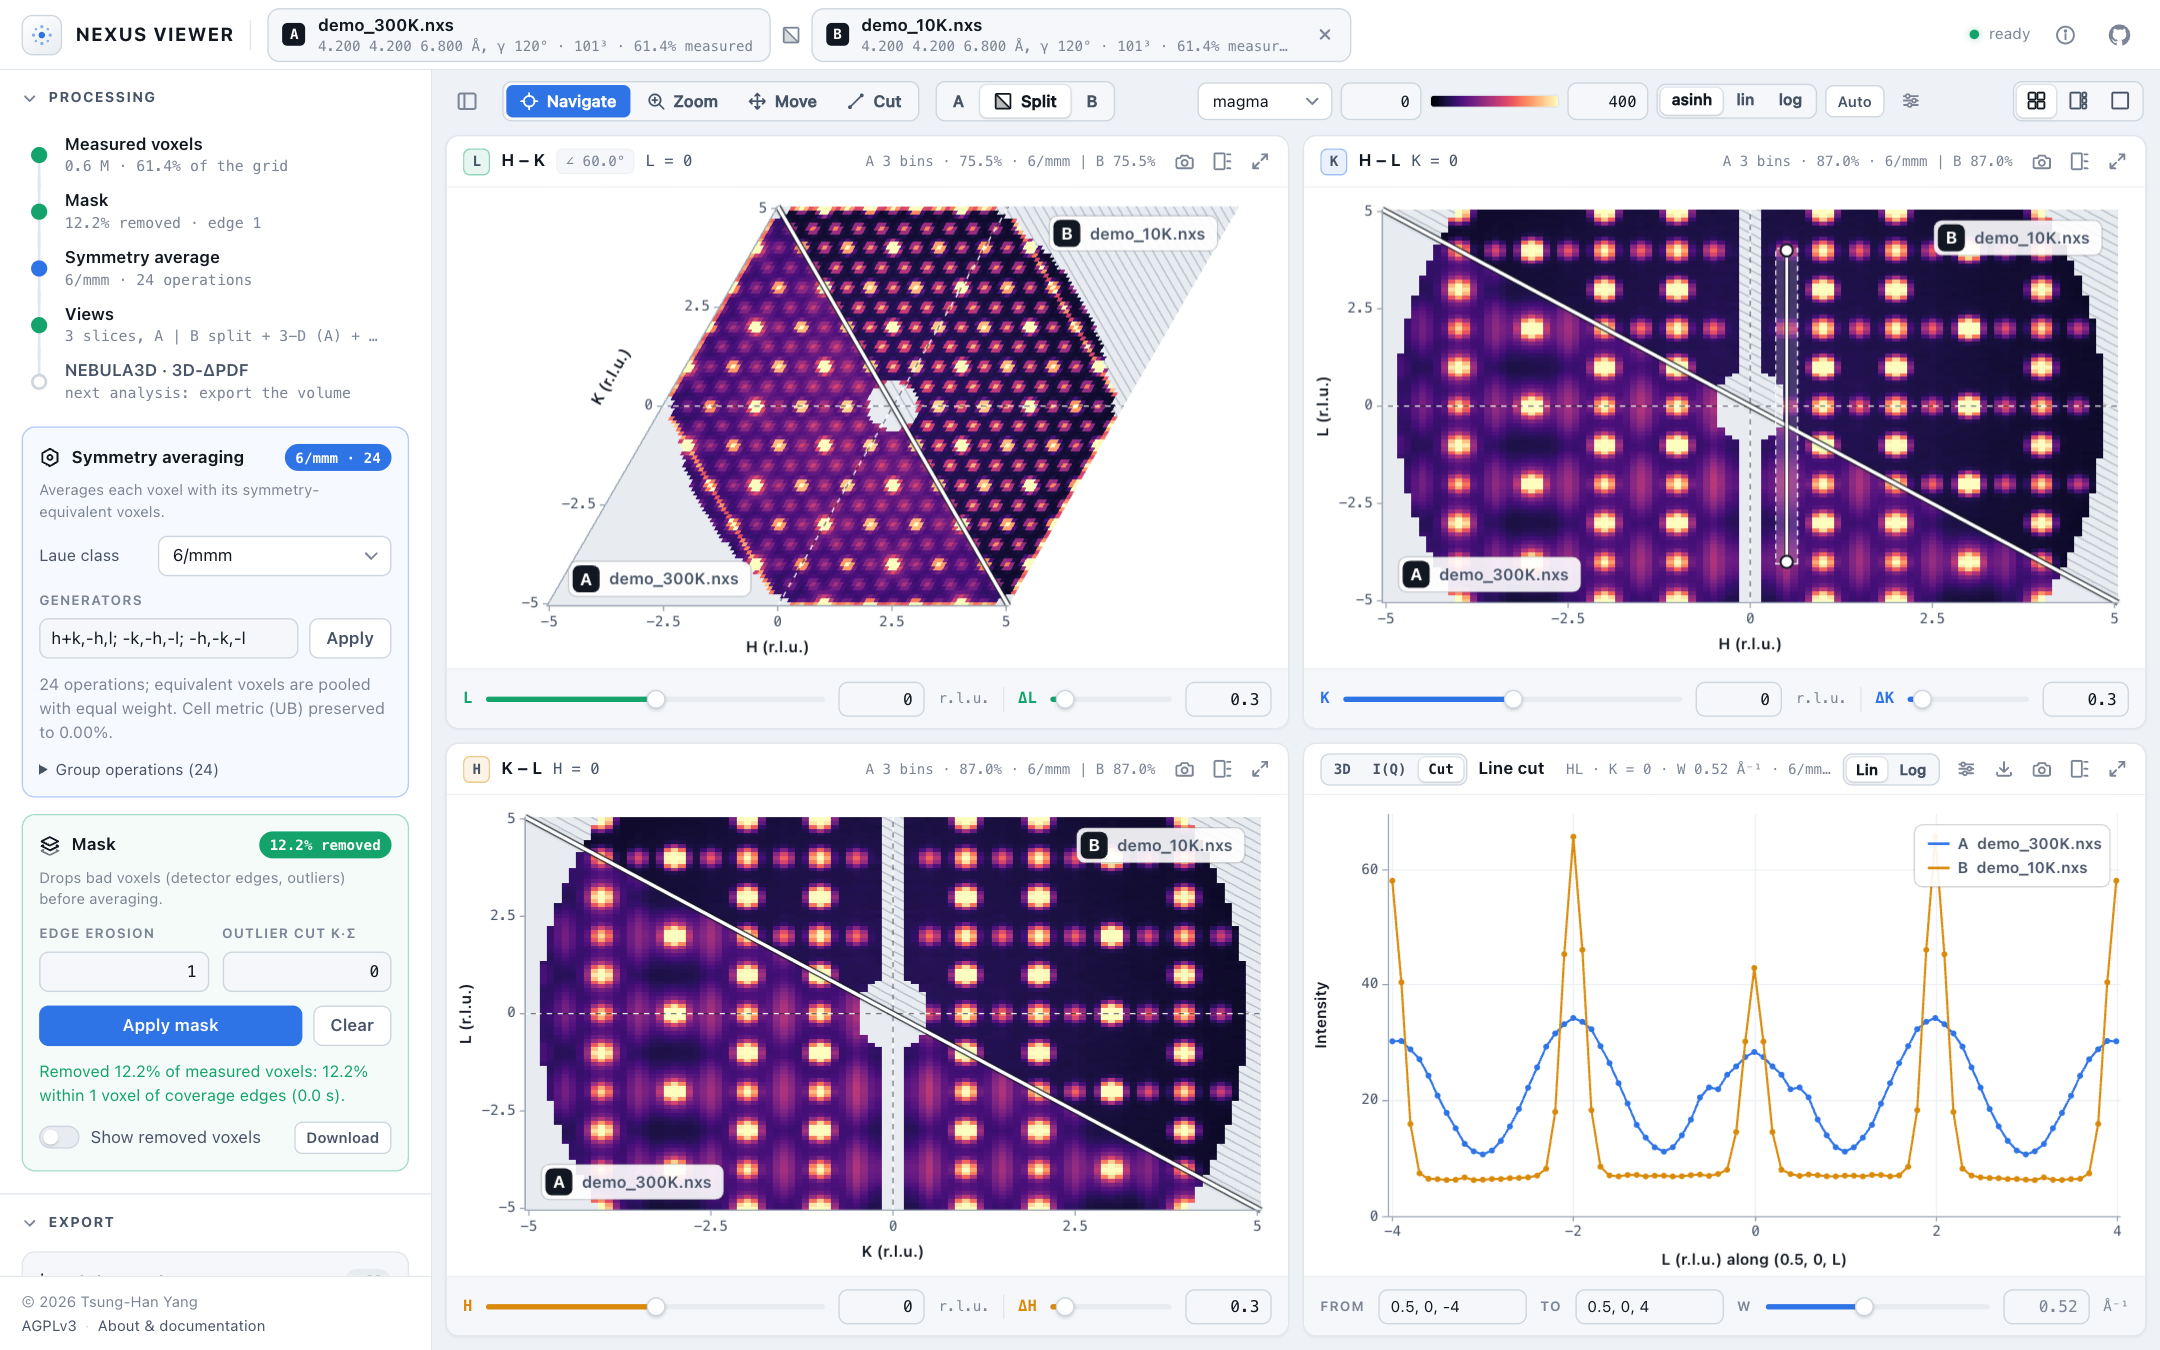
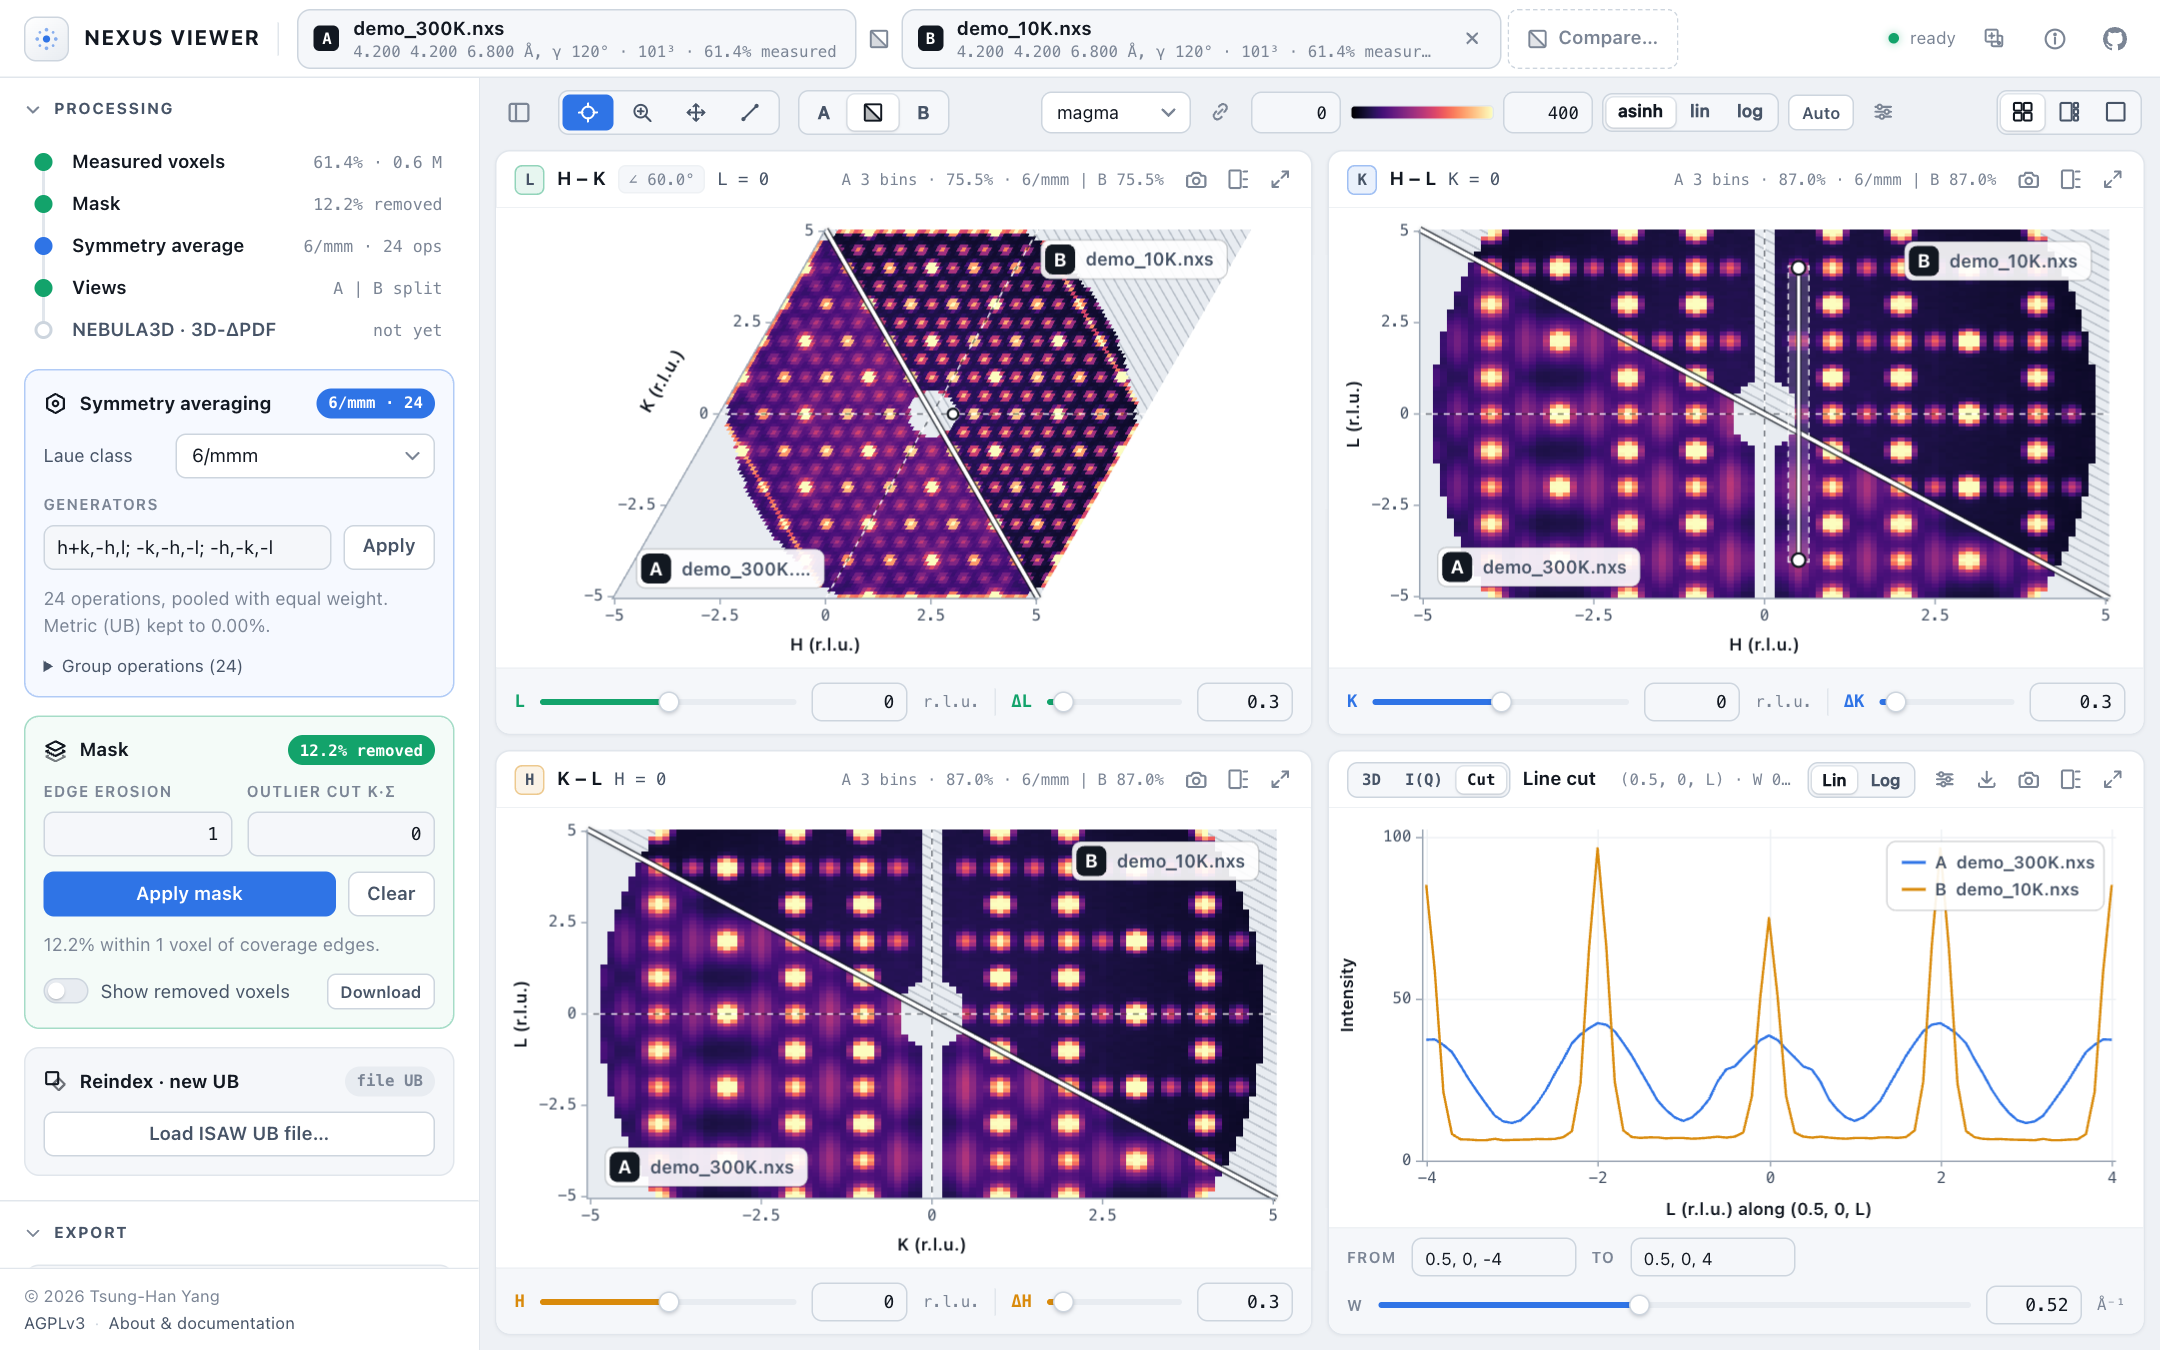
New README screenshot of the current interface, made by a script
tools/make_screenshot.mjs starts a headless Chrome with a temporary
profile, opens the example at 1440 x 900 and 1.5x pixel ratio, draws the
line cut along (0.5, 0, L) through the DevTools protocol and writes
docs/screenshot.png, so the picture can be remade after UI changes. The
new one shows the one-line pipeline and the Reindex card.

The README names reindexing in its summary and documentation table, and
the Method row the Rigaku reduction; DEVELOPMENT.md says how to remake the
screenshot. The mask's status leaves out a build time under 0.1 s.

diff --git a/js/app.js b/js/app.js
@@ -1897,7 +1897,7 @@ function showMask(seconds) {
   const parts = [];
   if (radius) parts.push(`${pct(edge / measured)} within ${radius} voxel${radius === 1 ? '' : 's'} of coverage edges`);
   if (k) parts.push(`${pct(outlier / measured)} above ${k}σ of their ${group} equivalents`);
-  statusEl.textContent = `${parts.join(', ')}${seconds ? ` (${seconds.toFixed(1)} s)` : ''}.`;
+  statusEl.textContent = `${parts.join(', ')}${seconds >= 0.1 ? ` (${seconds.toFixed(1)} s)` : ''}.`;
 }
 
 // ---- Export for NEBULA3D ----------------------------------------------------------------

diff --git a/README.md b/README.md
@@ -6,8 +6,8 @@
 [![Runs in the browser](https://img.shields.io/badge/runs-in%20your%20browser-6b6b6b)](https://drthyang.github.io/neutron-nexus-viewer/)
 
 **Reciprocal-space slices and line cuts of 3-D neutron and X-ray scattering data, with
-symmetry averaging, artifact masking, dataset comparison, a 3-D view, I(Q) and reduction of
-raw Rigaku single-crystal X-ray frames, all in your browser.**
+symmetry averaging, artifact masking, dataset comparison, a 3-D view, I(Q), reindexing with a
+new UB and reduction of raw Rigaku single-crystal X-ray frames, all in your browser.**
 
 **▶ Try it: [drthyang.github.io/neutron-nexus-viewer](https://drthyang.github.io/neutron-nexus-viewer/)** —
 nothing to install, and your data never leaves your machine. Open a Mantid `.nxs`
@@ -15,7 +15,7 @@ file, or [the example](https://drthyang.github.io/neutron-nexus-viewer/?demo): o
 short-range-order diffuse scattering condenses into superlattice peaks.
 
 <p align="center">
-  <img src="docs/screenshot.png" alt="NeXus Viewer comparing the example crystal at 300 K and 10 K: the HK, HL and KL slices are each split along their diagonal, with 300 K in the lower-left half and 10 K in the upper-right half. A line cut drawn on the HL slice along L through the M point (0.5, 0, L) is plotted in the fourth view: at 300 K a broad, continuous diffuse rod, at 10 K sharp superlattice peaks at even L. The control panel shows the processing pipeline with 6/mmm symmetry averaging and a mask, and the header row the click modes Navigate, Zoom, Move and Cut, the A / Split / B switch and the color scale." width="100%" />
+  <img src="docs/screenshot.png" alt="NeXus Viewer comparing the example crystal at 300 K and 10 K: the HK, HL and KL slices are each split along their diagonal, with 300 K in the lower-left half and 10 K in the upper-right half. A line cut drawn on the HL slice along L through the M point (0.5, 0, L) is plotted in the fourth view: at 300 K a broad, continuous diffuse rod, at 10 K sharp superlattice peaks at even L. The control panel shows the processing pipeline, one line per stage, with 6/mmm symmetry averaging, a mask and the Reindex card, and the header row the click modes, the A / Split / B switch and the color scale." width="100%" />
 </p>
 
 ## Goals
@@ -78,9 +78,9 @@ Tests (`npm install && npm test`), the code layout and deployment are covered in
 
 | Document | What it covers |
 | --- | --- |
-| [User guide](docs/USER_GUIDE.md) | The interface on each kind of screen, every control, line cuts, comparison, layouts, export, remote files and supported formats |
-| [Method](docs/METHOD.md) | How slices, line cuts, symmetry averaging, masking, comparison, the 3-D view, I(Q) and the NEBULA3D export are computed, and how they are validated |
-| [Development](docs/DEVELOPMENT.md) | Code layout, tests and fixtures, example data, dependencies and deployment |
+| [User guide](docs/USER_GUIDE.md) | The interface on each kind of screen, every control, line cuts, comparison, reindexing with a new UB, Rigaku reduction, layouts, export, remote files and supported formats |
+| [Method](docs/METHOD.md) | How slices, line cuts, symmetry averaging, masking, comparison, the 3-D view, I(Q), reindexing, the NEBULA3D export and the Rigaku reduction are computed, and how they are validated |
+| [Development](docs/DEVELOPMENT.md) | Code layout, tests and fixtures, example data, the screenshot, dependencies and deployment |
 
 ## License
 

diff --git a/docs/DEVELOPMENT.md b/docs/DEVELOPMENT.md
@@ -55,7 +55,12 @@ These scripts need numpy and h5py, and matplotlib for the colormaps:
 
 `tests/node-worker.js` wraps `node:worker_threads` as a Web Worker, so the tests run the parallel reduction and check that it is bit-identical to the serial one. `tests/rigaku-synth.js` writes synthetic Rigaku frames (a TY6 encoder and a frame writer) and simulates a rotation experiment, with optional air scatter and matching background frames or scans, for `tests/rigaku.test.js`; no real frames are in the repository. `tests/rigaku-local.test.js` decodes every frame of a real experiment and checks it against the header statistics when `RIGAKU_DIR` points at one (`RIGAKU_DIR=/path/to/experiment npm test`); without it, it is skipped.
 
-`docs/screenshot.png` is a capture of the example (`?demo`: 6/mmm averaging and a 1-voxel edge mask) at 1440×900 and 1.5× pixel ratio.
+`docs/screenshot.png` is a capture of the example (`?demo`: 6/mmm averaging and a 1-voxel edge mask) with a line cut along (0.5, 0, L) in the fourth view, at 1440×900 and 1.5× pixel ratio. `tools/make_screenshot.mjs` writes it with a headless Chrome and a temporary profile (`CHROME` points at another browser binary):
+
+```bash
+python3 -m http.server 8000 &
+node tools/make_screenshot.mjs http://localhost:8000/?demo docs/screenshot.png
+```
 
 ## Dependencies
 
